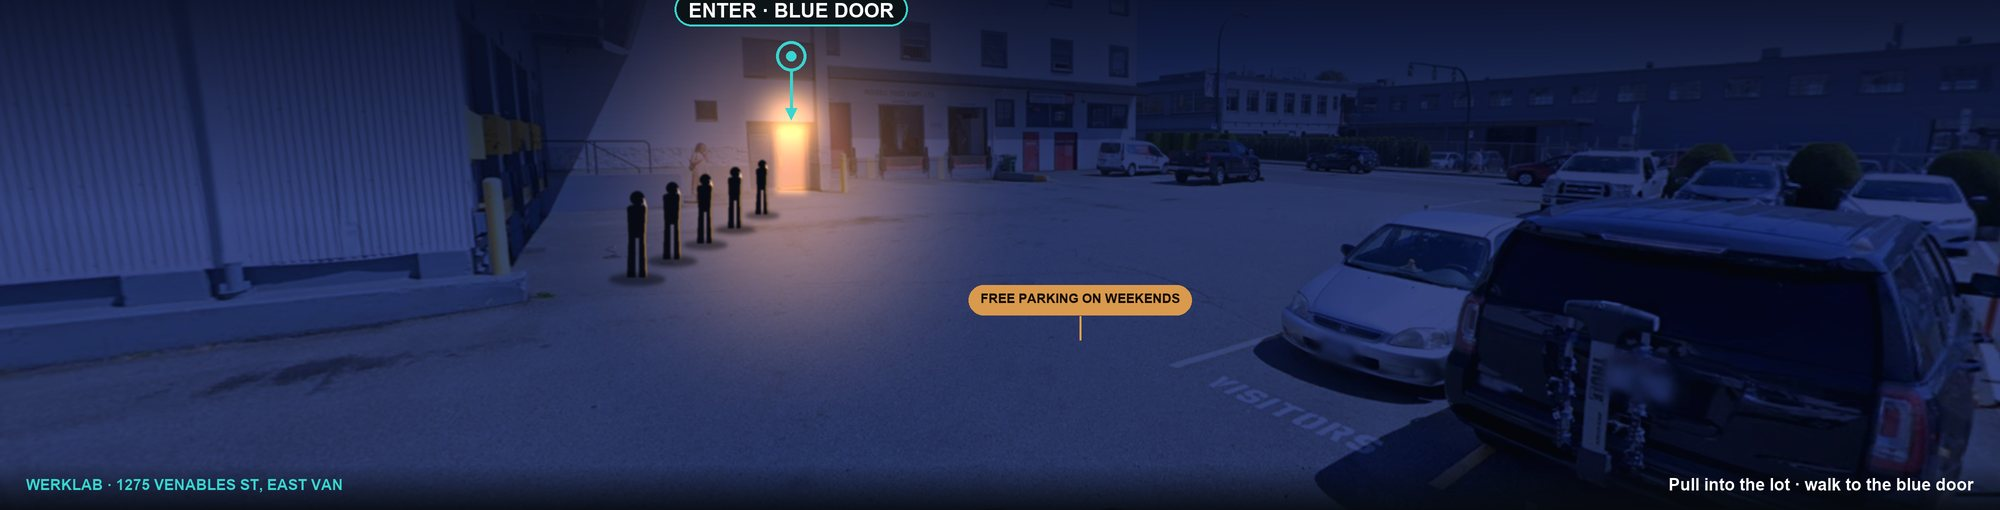
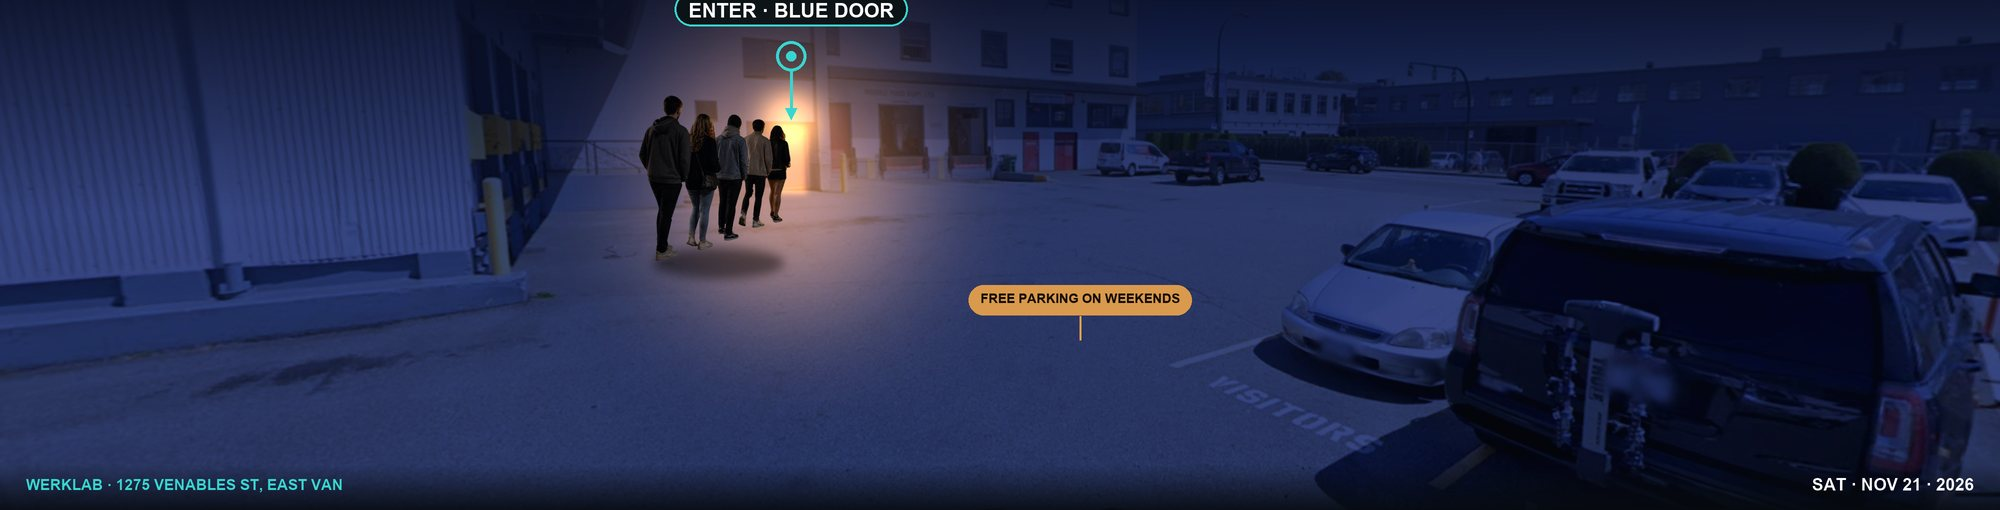
Entrance photo: real people (casual wear) walking to the lit door at night; de-dupe blue-door copy

Changed region(s): [[0.31, 0.1765, 0.403, 0.5588], [0.837, 0.9412, 0.992, 0.9706]]

diff --git a/index.html b/index.html
@@ -588,8 +588,8 @@
     <h2 class="sec reveal">Frequently Asked Questions</h2>
     <div class="faq">
       <details class="faq-item faq-key reveal" open><summary><span class="pin">📍</span>Where do I park, and how do I get in?<svg class="chev" width="20" height="20" viewBox="0 0 24 24" fill="none" stroke="currentColor" stroke-width="2.2" stroke-linecap="round" stroke-linejoin="round"><path d="M6 9l6 6 6-6"/></svg></summary><div class="faq-a"><strong style="color:#fff">On weekends the entire parking lot right outside the venue is free</strong> — just pull in. Then head straight for the <strong style="color:var(--teal-bright)">blue door</strong>; that’s the entrance. Here’s exactly what you’ll be looking for when you arrive:
-        <a class="faq-photo" href="assets/werklab-entrance-night.jpg" data-cap="Werklab · 1275 Venables St — free weekend parking in the lot, enter through the blue door."><img src="assets/werklab-entrance-night.jpg" alt="Night view of the Werklab parking lot with the blue entrance door lit up and a line forming" loading="lazy"><span class="tap">Tap to enlarge ⤢</span></a>
-        <div class="faq-note">Werklab · 1275 Venables St, East Vancouver. Look for the lit <strong style="color:var(--teal-bright)">blue door</strong> — if there’s a small line, you’re in the right spot.</div></div></details>
+        <a class="faq-photo" href="assets/werklab-entrance-night.jpg" data-cap="Werklab · 1275 Venables St — free weekend parking right in the lot."><img src="assets/werklab-entrance-night.jpg" alt="Night view of the Werklab parking lot with people walking toward the lit blue entrance door" loading="lazy"><span class="tap">Tap to enlarge ⤢</span></a>
+        <div class="faq-note">Werklab · 1275 Venables St, East Vancouver. If there’s a small line out front, you’re in the right spot.</div></div></details>
       <details class="faq-item reveal"><summary>Is there a bar?<svg class="chev" width="20" height="20" viewBox="0 0 24 24" fill="none" stroke="currentColor" stroke-width="2.2" stroke-linecap="round" stroke-linejoin="round"><path d="M6 9l6 6 6-6"/></svg></summary><div class="faq-a">Yes — we’ll serve a limited quantity of wellness-focused alcoholic and non-alcoholic drinks. If you’re picky about what you drink, bring your own and pop it in our fridge (just be open to sharing, or to someone mixing your bottle up with theirs).</div></details>
       <details class="faq-item reveal"><summary>Is there food?<svg class="chev" width="20" height="20" viewBox="0 0 24 24" fill="none" stroke="currentColor" stroke-width="2.2" stroke-linecap="round" stroke-linejoin="round"><path d="M6 9l6 6 6-6"/></svg></summary><div class="faq-a">Yep — we’ll have healthy snacks to keep you fuelled through the night, but we definitely recommend grabbing an early dinner. Want to join some of the attendees beforehand at Superflux Beer Company from 5:00–6:45 PM? Text Paul at <a href="tel:+16048093188">604-809-3188</a> to RSVP.</div></details>
       <details class="faq-item reveal"><summary>Do I need to know anyone?<svg class="chev" width="20" height="20" viewBox="0 0 24 24" fill="none" stroke="currentColor" stroke-width="2.2" stroke-linecap="round" stroke-linejoin="round"><path d="M6 9l6 6 6-6"/></svg></summary><div class="faq-a">To buy a ticket, you need to be referred — we’ve carefully curated the event to match the right people up and make sure we have the right people in the room.</div></details>
